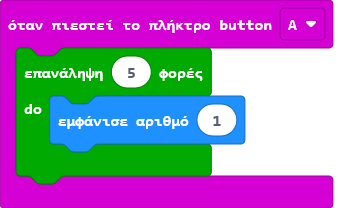
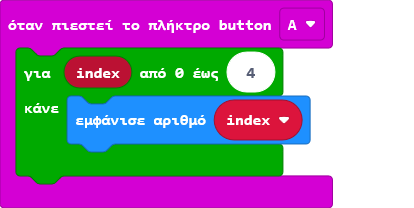
Ενημέρωση pxt.json, main.blocks, main.ts, main.py

diff --git a/main.ts b/main.ts
@@ -1,5 +1,5 @@
 input.onButtonPressed(Button.A, function () {
-    for (let index = 0; index < 5; index++) {
-        basic.showNumber(1)
+    for (let index = 0; index <= 4; index++) {
+        basic.showNumber(index)
     }
 })

diff --git a/main.py b/main.py
@@ -1,0 +1,6 @@
+
+
+def on_button_pressed_a():
+    for index in range(5):
+        basic.show_number(index)
+input.on_button_pressed(Button.A, on_button_pressed_a)
